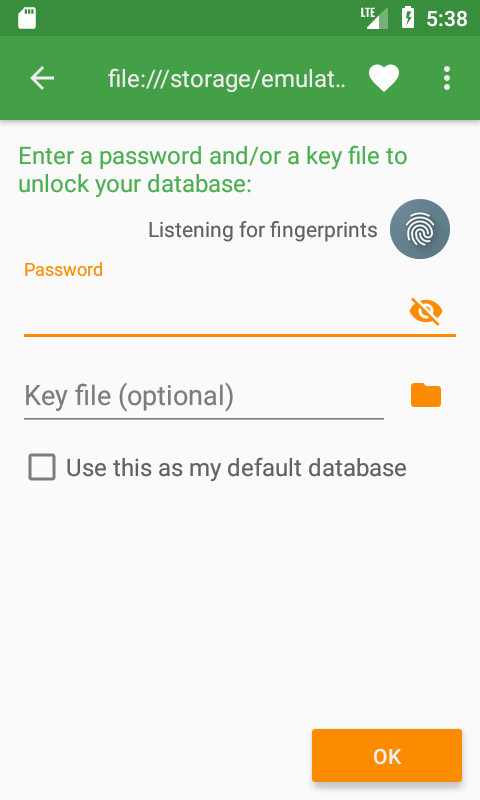
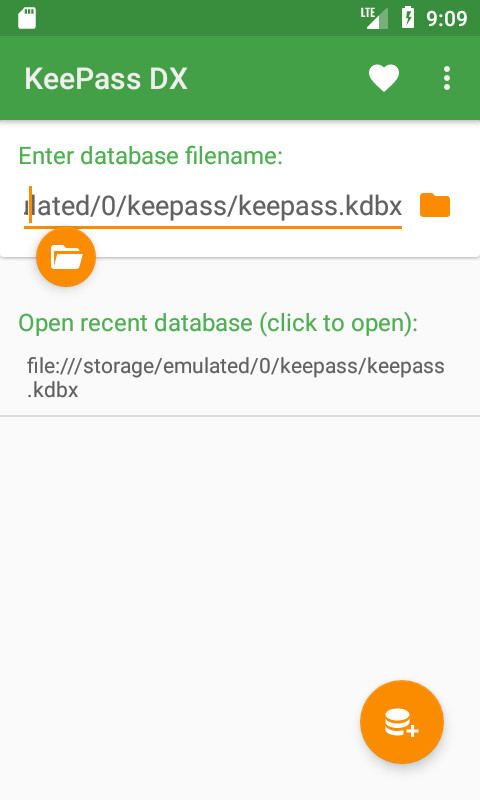
Update ReadMe and screens

diff --git a/ReadMe.md b/ReadMe.md
@@ -4,13 +4,14 @@
 
 ### Features
 
-- Create database file / entries and groups
+- Simplified creation of the database file
+- Create entries and groups
 - Open database, copy username / password, open URI / URL
 - Fingerprint for fast unlocking
 - Material design with themes
 - Device integration and AutoFill (In progress)
 
-<img src="https://raw.githubusercontent.com/Kunzisoft/KeePassDX/master/art/screen0.jpg" width="220">
+<img src="https://raw.githubusercontent.com/Kunzisoft/KeePassDX/master/art/screen1.jpg" width="220">
 <img src="https://raw.githubusercontent.com/Kunzisoft/KeePassDX/master/art/screen2.jpg" width="220">
 
 ## What is KeePass?
